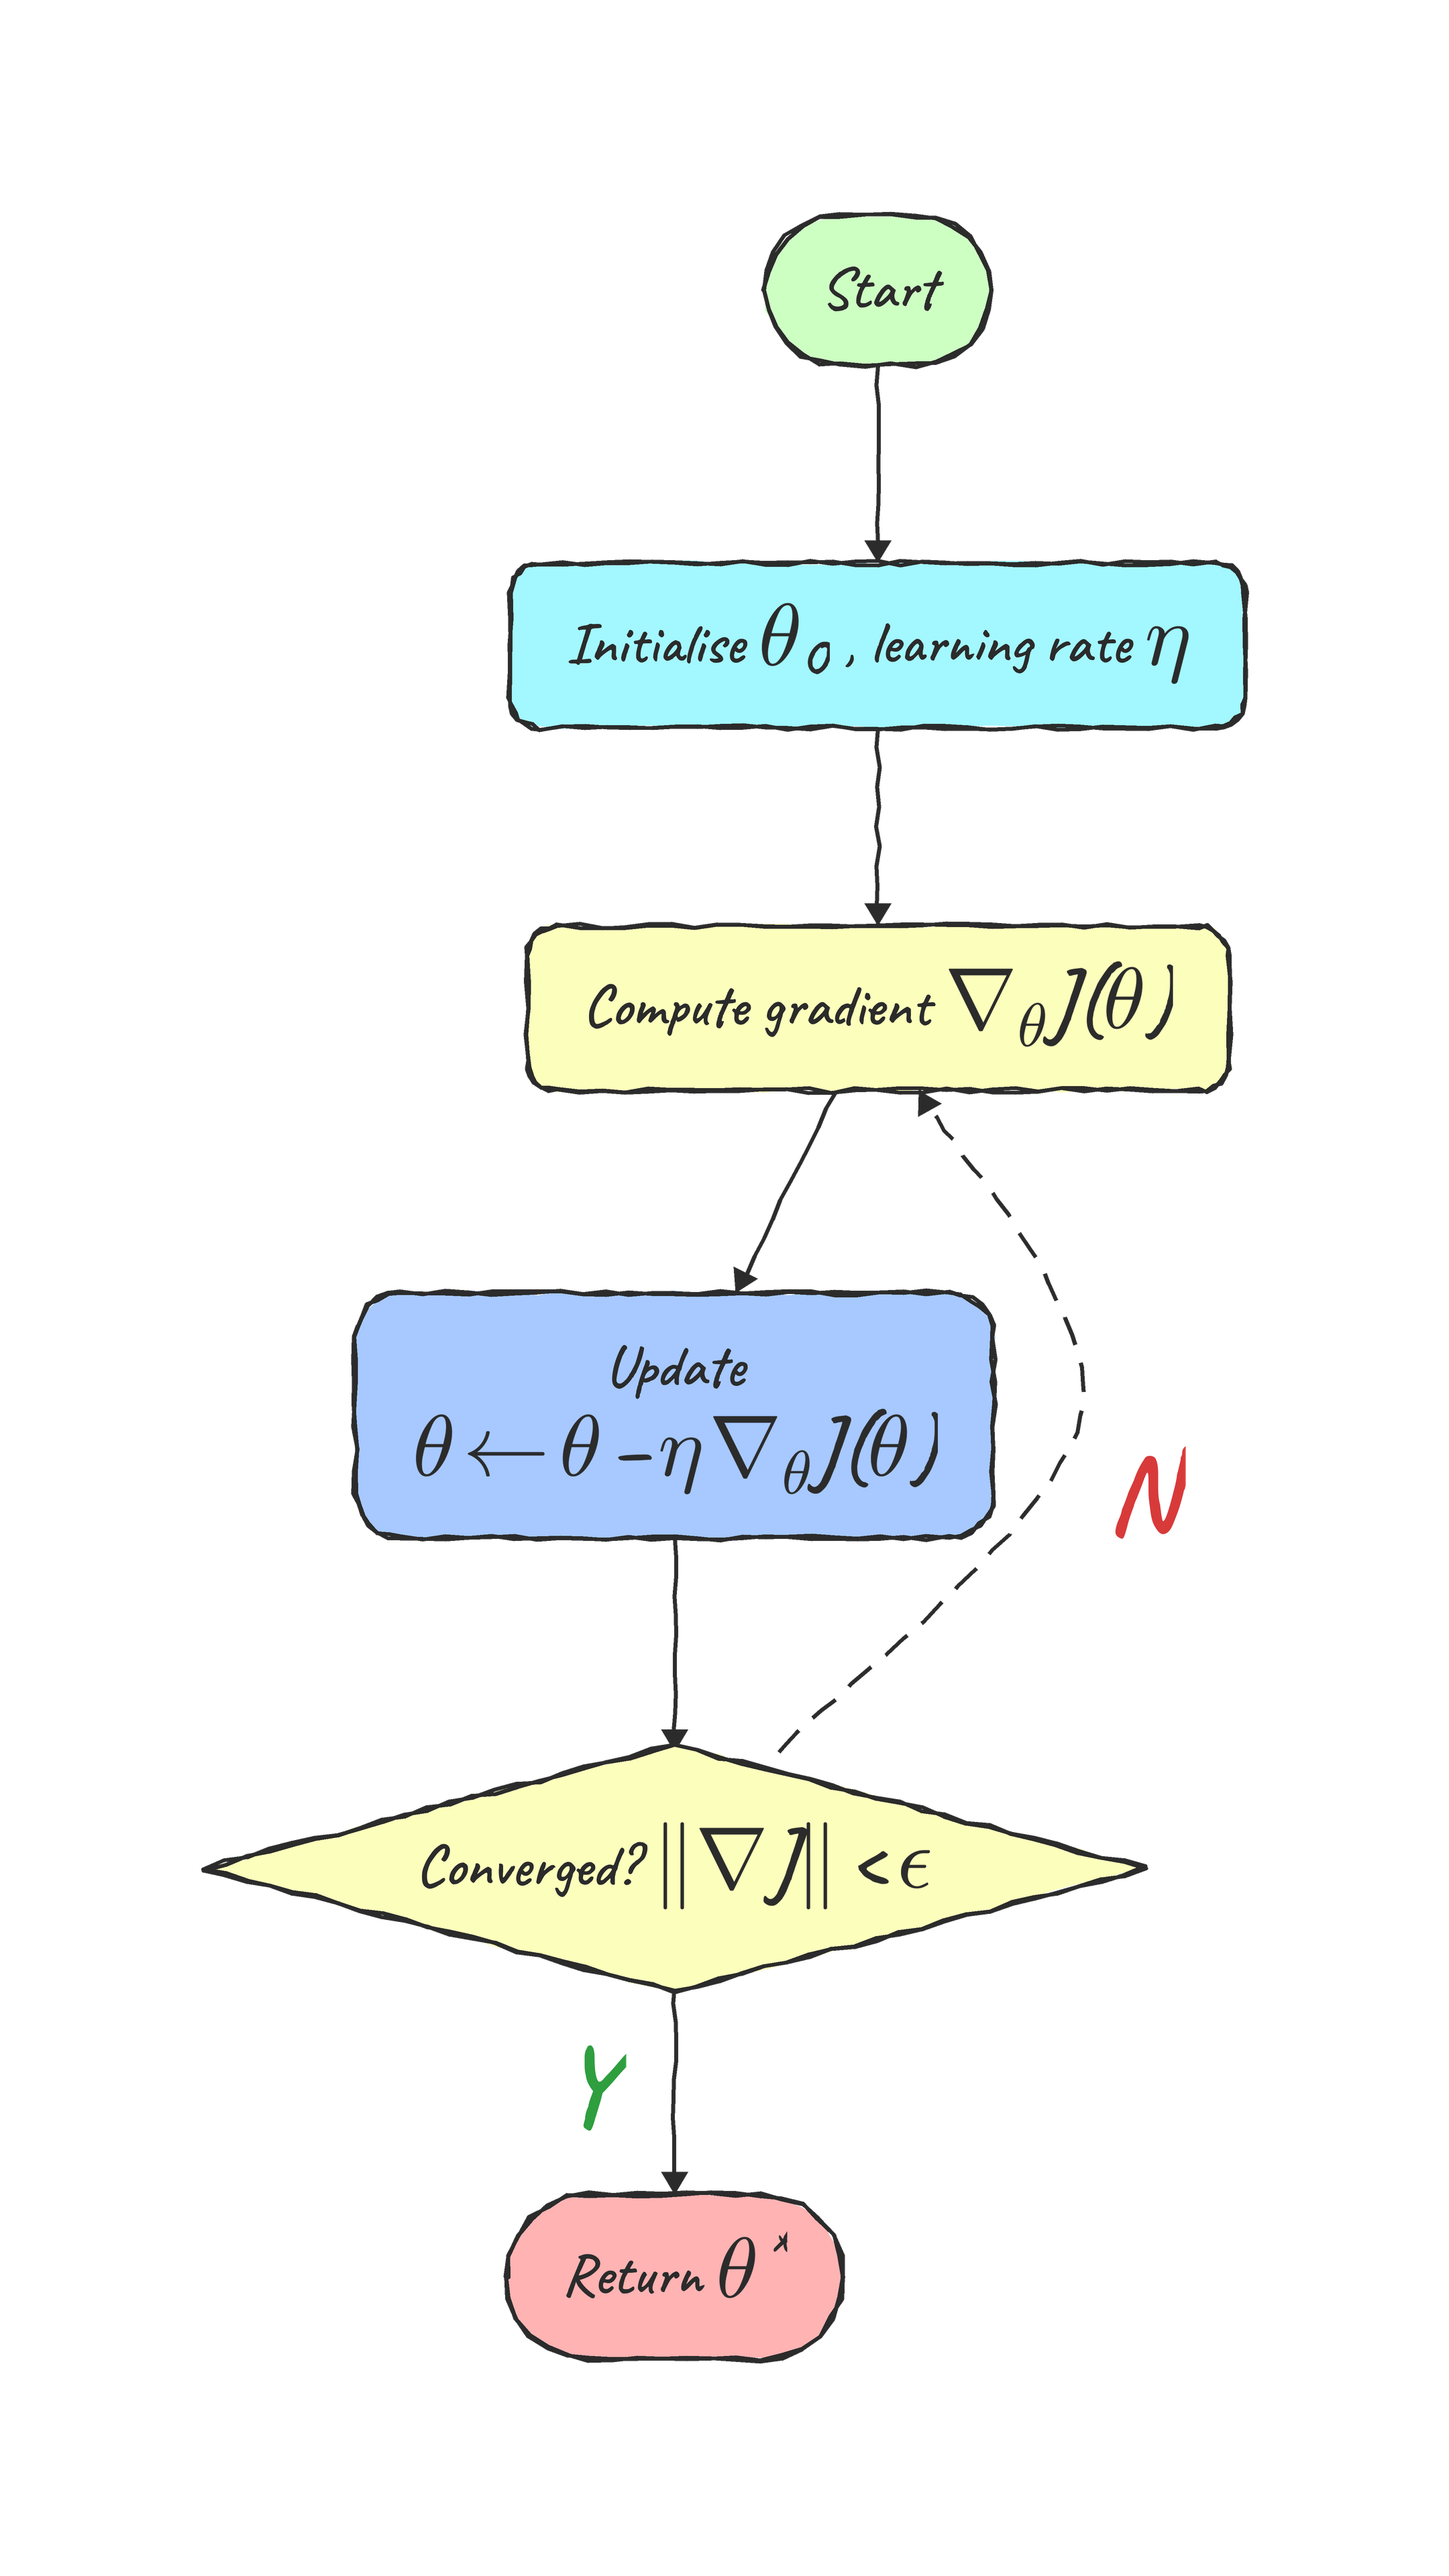
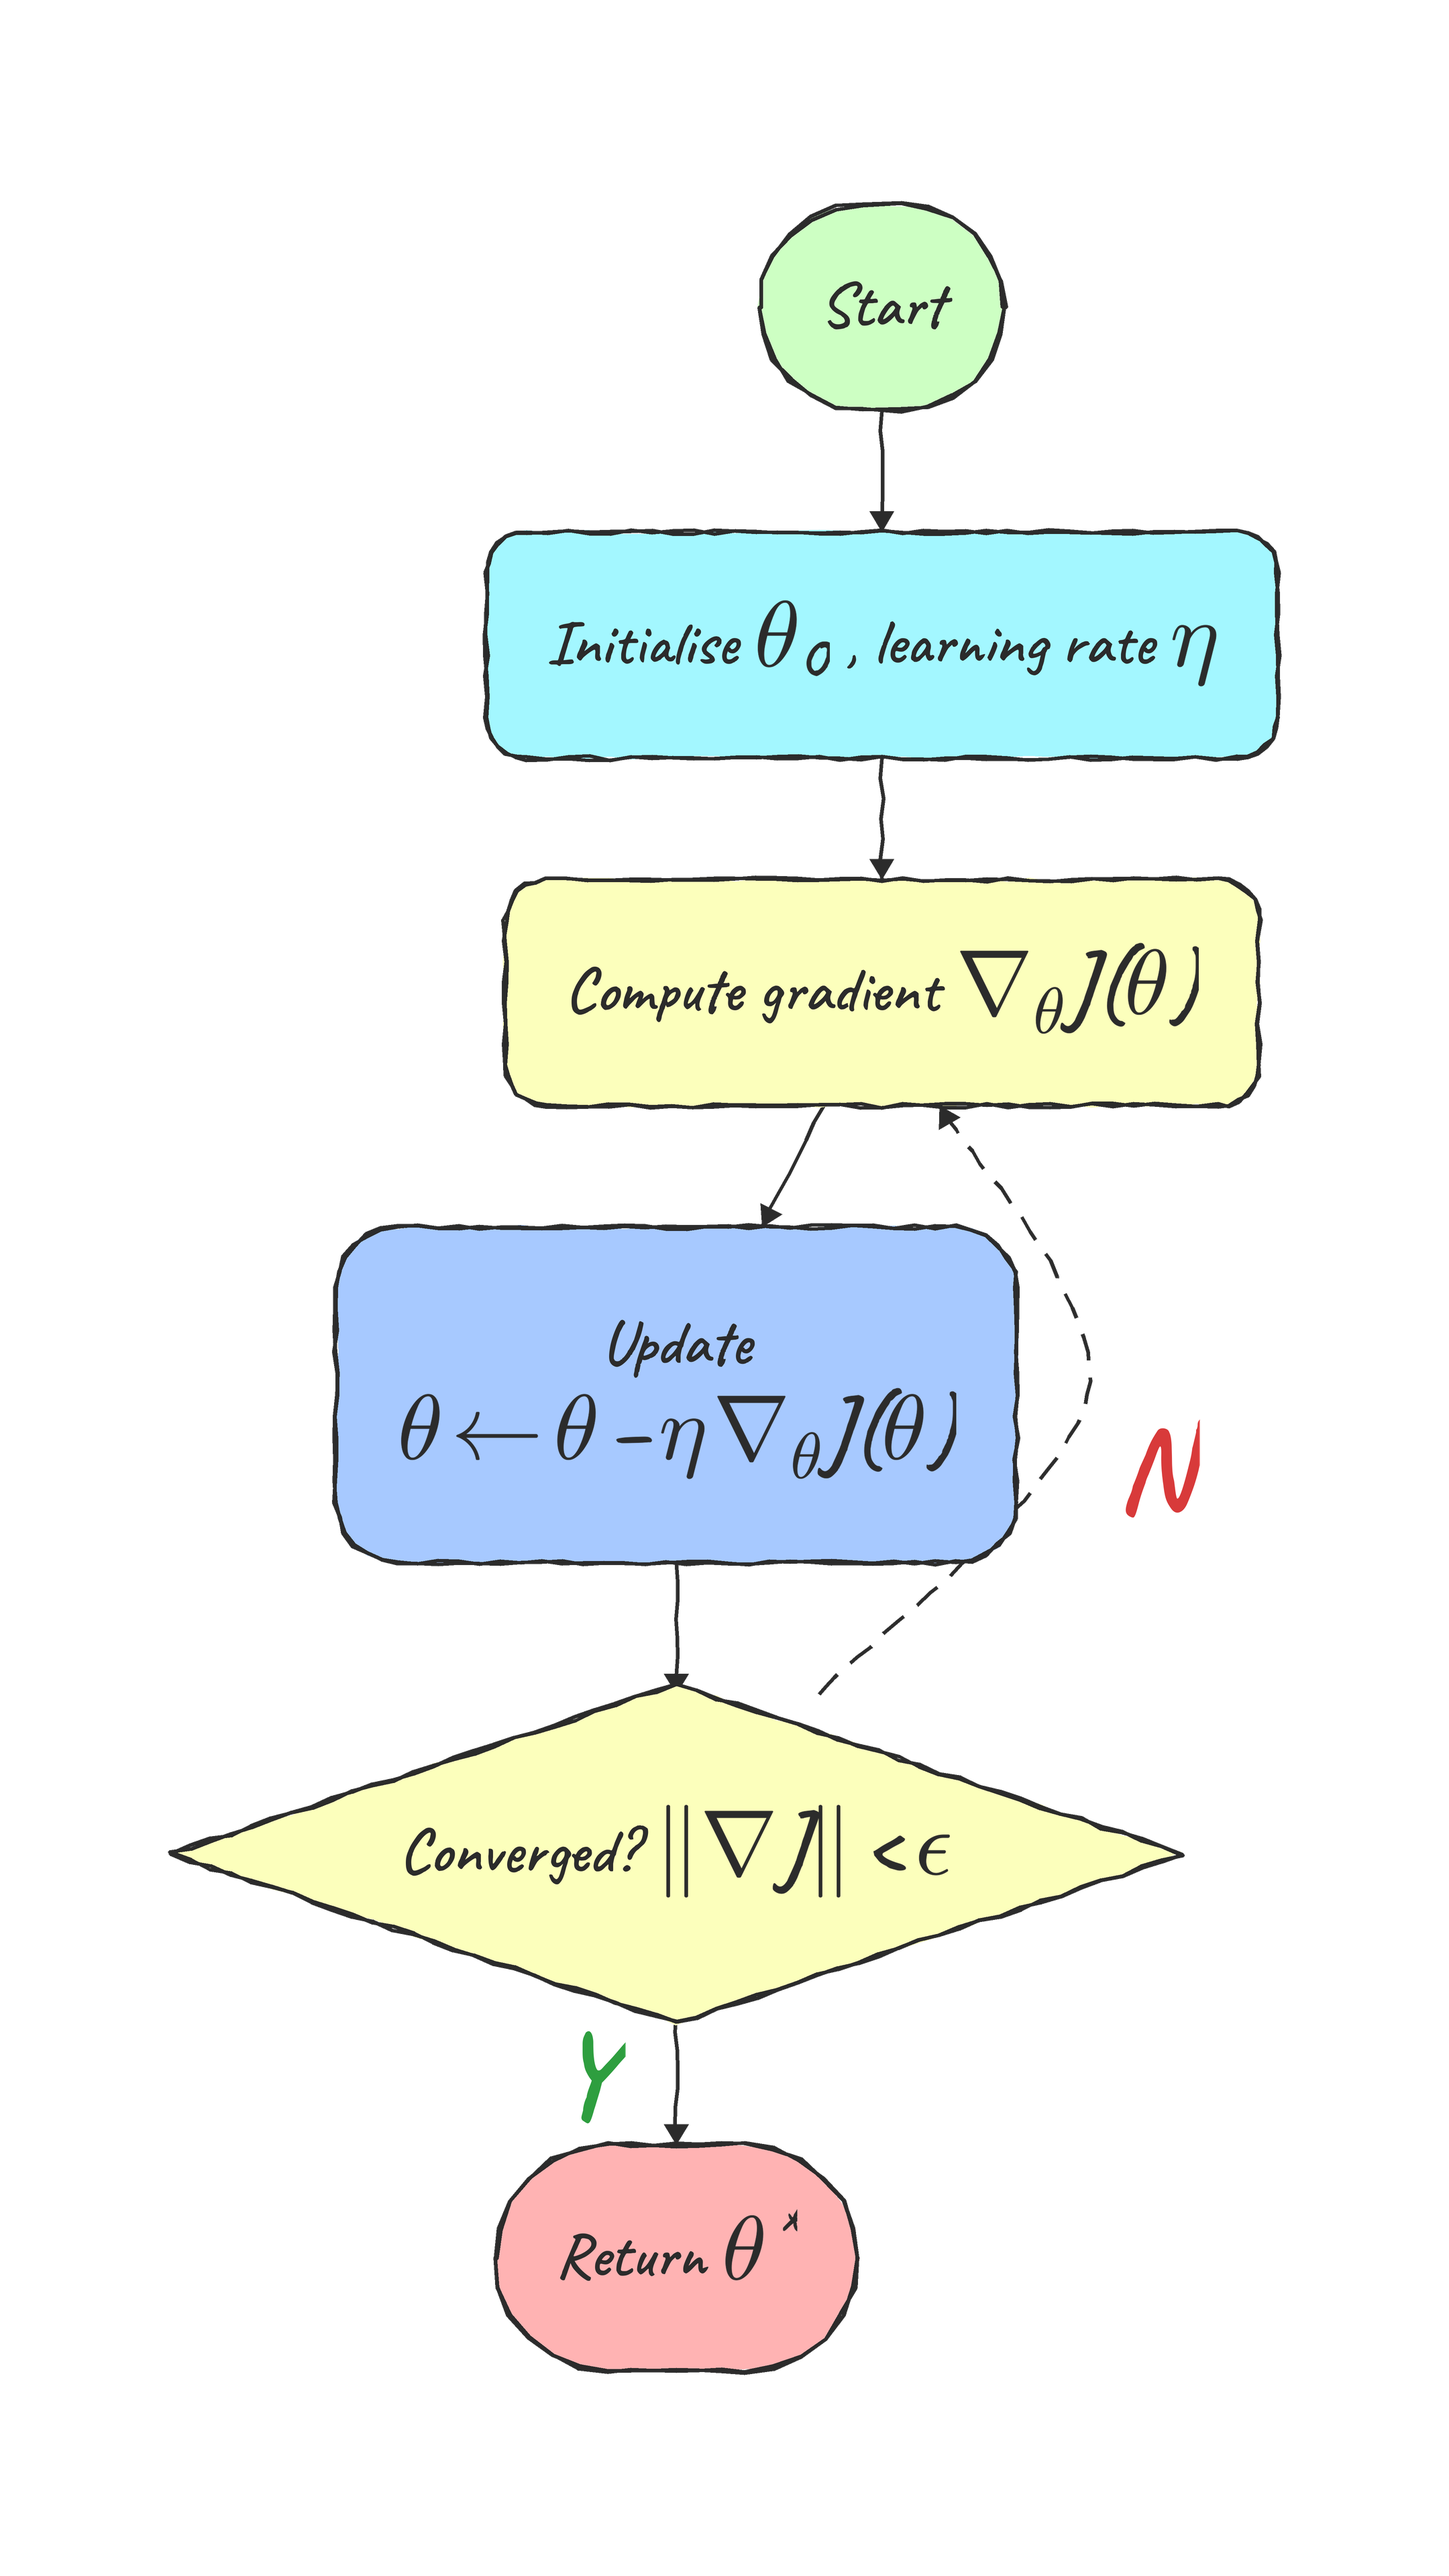
Maximise node size: fill the frame in both axes (capped)
"Make best use of the frame" means big nodes, not spread-out ones. Drop the
gap-stretch and instead scale X and Y independently to fill the frame in both
dimensions, capped at 1.35x so shapes aren't badly distorted. Bigger base
font (40) and tighter gaps so nodes dominate the canvas. Text, strokes and
math stay uniformly scaled (no distortion).

Claude-Session: https://claude.ai/code/session_01PkQ793Mrcet6GuHUUkKXnM

Changed region(s): [[0.1241, 0.0625, 0.8995, 0.9375], [0.7755, 0.5625, 0.8375, 0.5938]]

diff --git a/flowblow/raster.py b/flowblow/raster.py
@@ -186,21 +186,23 @@ def _dash(points: Sequence[Point], on: float, off: float) -> List[List[Point]]:
 # The drawer -- everything below works in OUTPUT pixels.
 # ---------------------------------------------------------------------------
 class _Drawer:
-    def __init__(self, img: Image.Image, unit: float, ox: float, oy: float, ink: str):
+    def __init__(self, img: Image.Image, ux: float, uy: float,
+                 ox: float, oy: float, ink: str):
         self.img = img
         self.d = ImageDraw.Draw(img)
-        self.unit = unit            # layout units -> output px
+        self.ux, self.uy = ux, uy   # layout units -> output px (per axis)
+        self.u = min(ux, uy)        # uniform scale for text, strokes, etc.
         self.ox, self.oy = ox, oy   # output origin offset
         self.accent = ink           # ink colour as hex string
         self.ink = hex_rgba(ink)
-        self.stroke = max(1.4, 2.4 * unit)
-        self.amp = 1.5 * unit
-        self.seg = 13 * unit
+        self.stroke = max(1.4, 2.4 * self.u)
+        self.amp = 1.5 * self.u
+        self.seg = 13 * self.u
         self.rng = random.Random(0)
 
-    # coordinate transform
+    # coordinate transform (anisotropic)
     def T(self, x: float, y: float) -> Point:
-        return (x * self.unit + self.ox, y * self.unit + self.oy)
+        return (x * self.ux + self.ox, y * self.uy + self.oy)
 
     # --- rough path utilities (input already in output px) ---
     def _roughen(self, pts: Sequence[Point], closed: bool, seed: int,
@@ -256,7 +258,7 @@ class _Drawer:
 
     # --- draw a rich-text block centred at output (cx, cy) ---
     def text_block(self, blk: Block, cx: float, cy: float, weight: int, color: str):
-        u = self.unit
+        u = self.u
         size_px = getattr(blk, "size", 24) * u
         font = get_font(weight, size_px)
         fill = hex_rgba(color)
@@ -282,12 +284,12 @@ class _Drawer:
                         color: str, halo=(255, 255, 255)):
         """Draw a label with a soft white knockout so it reads over any line
         (no boxy pill)."""
-        u = self.unit
+        u = self.u
         pad = int(round(5 * u)) + 2
         w = max(1, int(math.ceil(blk.w * u)) + 2 * pad)
         h = max(1, int(math.ceil(blk.h * u)) + 2 * pad)
         tile = Image.new("RGBA", (w, h), (0, 0, 0, 0))
-        sub = _Drawer(tile, u, 0, 0, self.accent)
+        sub = _Drawer(tile, u, u, 0, 0, self.accent)
         sub.text_block(blk, w / 2, h / 2, weight, color)
         # build a dilated, blurred white halo from the text's alpha
         r = max(1, int(round(2.4 * u)))
@@ -361,9 +363,10 @@ def _shape_points(shape: Shape, cx, cy, w, h):
 # ---------------------------------------------------------------------------
 # Scene assembly
 # ---------------------------------------------------------------------------
-def _draw_scene(diagram: Diagram, layout, blocks, unit: float,
+def _draw_scene(diagram: Diagram, layout, blocks, ux: float, uy: float,
                 ox: float, oy: float, img: Image.Image) -> None:
-    dr = _Drawer(img, unit, ox, oy, diagram.accent)
+    dr = _Drawer(img, ux, uy, ox, oy, diagram.accent)
+    unit = dr.u  # uniform scale for scalar sizes (text, dashes, offsets...)
     node_meta = {n.id: n for n in diagram.nodes}
     group_meta = {g.id: g for g in diagram.groups}
     group_color = {g.id: g.color for g in diagram.groups}
@@ -502,7 +505,7 @@ def _draw_scene(diagram: Diagram, layout, blocks, unit: float,
         else:
             fill = PALETTE[_hash(nid) % len(PALETTE)]
         cx, cy = dr.T(pn.x, pn.y)
-        w, h = pn.w * unit, pn.h * unit
+        w, h = pn.w * dr.ux, pn.h * dr.uy
         obstacles.append((cx - w / 2, cy - h / 2, cx + w / 2, cy + h / 2))
         seed = _hash(nid) & 255
         fill_rgba = hex_rgba(fill, 235)
@@ -598,21 +601,6 @@ _ROTATE = {Direction.TB: Direction.LR, Direction.LR: Direction.TB,
            Direction.BT: Direction.RL, Direction.RL: Direction.BT}
 
 
-def _stretch_vertical(layout, factor: float, top: float = 0.0) -> None:
-    """Spread everything out along Y by ``factor`` (node sizes unchanged) so a
-    short diagram fills the vertical length of a tall frame."""
-    def sy(y):
-        return top + (y - top) * factor
-    for pn in layout.nodes.values():
-        pn.y = sy(pn.y)
-    for e in layout.edges:
-        e.points = [(x, sy(y)) for (x, y) in e.points]
-    for g in layout.groups:
-        y0, y1 = sy(g.y), sy(g.y + g.h)
-        g.y, g.h = y0, y1 - y0
-    layout.height = sy(layout.height)
-
-
 def _scene_size(layout, title_block, fs):
     top = (title_block.h + fs * 1.1) if title_block else 0.0
     scene_w = max(layout.width, title_block.w if title_block else 0)
@@ -658,44 +646,27 @@ def render_png_bytes(diagram: Diagram, width: int = 1080, height: int = 1920,
     diagram.direction = chosen
 
     # extra margin so bowed arcs / floated labels never clip at the edge
-    B = fs * 1.9
-
-    # Use the full vertical length: if the frame is taller than the diagram
-    # needs (width is the binding dimension), spread the rows vertically to
-    # fill the height instead of leaving slack.
-    fit_w = (fw - 2 * pad) / (scene_w + 2 * B)
-    fit_h = (fh - 2 * pad) / (scene_h + 2 * B)
-    if fit_h > fit_w * 1.02:
-        target_h = (fh - 2 * pad) / fit_w - 2 * B
-        factor = min(target_h / scene_h, 2.4)
-        if factor > 1.0:
-            _stretch_vertical(layout, factor)
-            scene_w, scene_h, top = _scene_size(layout, title_block, fs)
-
+    B = fs * 1.3
     diagram_ox = (scene_w - layout.width) / 2
     total_w, total_h = scene_w + 2 * B, scene_h + 2 * B
-    fit = min((fw - 2 * pad) / total_w, (fh - 2 * pad) / total_h)
 
+    # Make the nodes as BIG as possible: scale X and Y independently to fill the
+    # frame in both dimensions, capped so shapes are not distorted too much.
     ss = max(1, supersample)
-    unit = fit * ss
-    scene_px_w = int(math.ceil(total_w * unit)) + 2
-    scene_px_h = int(math.ceil(total_h * unit)) + 2
+    sx = (fw - 2 * pad) / total_w
+    sy = (fh - 2 * pad) / total_h
+    base = min(sx, sy)
+    cap = 1.35
+    sx = min(sx, base * cap)
+    sy = min(sy, base * cap)
+    ux, uy = sx * ss, sy * ss
+
+    scene_px_w = int(math.ceil(total_w * ux)) + 2
+    scene_px_h = int(math.ceil(total_h * uy)) + 2
 
     scene = Image.new("RGBA", (scene_px_w, scene_px_h), (0, 0, 0, 0))
-    _draw_scene(diagram, layout, blocks, unit,
-                ox=(B + diagram_ox) * unit, oy=(B + top) * unit, img=scene)
-
-    # title
-    if title_block is not None:
-        tdr = _Drawer(scene, unit, 0, 0, diagram.accent)
-        tcx = (B + scene_w / 2) * unit
-        tdr.text_block(title_block, tcx, (B + title_block.h / 2 + fs * 0.2) * unit,
-                       700, diagram.accent)
-        # little underline flourish
-        uw = title_block.w * unit * 0.6
-        uy = (B + title_block.h + fs * 0.25) * unit
-        tdr.stroke_path([(tcx - uw / 2, uy), (tcx + uw / 2, uy)],
-                        hex_rgba(diagram.accent, 140), width=max(1, 2 * unit), passes=1)
+    _draw_scene(diagram, layout, blocks, ux, uy,
+                ox=(B + diagram_ox) * ux, oy=(B + top) * uy, img=scene)
 
     # downsample supersample
     if ss > 1:

diff --git a/flowblow/layout.py b/flowblow/layout.py
@@ -24,9 +24,9 @@ from .models import Diagram, Direction, Edge, Node, Shape
 # ---------------------------------------------------------------------------
 # Tunable spacing constants (pixels)
 # ---------------------------------------------------------------------------
-LAYER_GAP = 95          # spacing between successive layers (along main axis)
-SIBLING_GAP = 50        # min spacing between nodes inside the same layer
-GROUP_GAP = 80          # extra spacing between nodes of different groups
+LAYER_GAP = 60          # spacing between successive layers (along main axis)
+SIBLING_GAP = 44        # min spacing between nodes inside the same layer
+GROUP_GAP = 64          # extra spacing between nodes of different groups
 COMPONENT_GAP = 80      # spacing between disconnected components
 DUMMY_SIZE = 2          # cross-extent of a virtual routing node
 MARGIN = 24             # outer canvas margin (kept small; PNG fit adds framing)

diff --git a/flowblow/models.py b/flowblow/models.py
@@ -95,7 +95,7 @@ class Diagram(BaseModel):
     edges: List[Edge] = Field(default_factory=list)
     groups: List[Group] = Field(default_factory=list)
     # Visual knobs.
-    font_size: int = 34
+    font_size: int = 40
     accent: str = "#2b2b2b"  # ink colour for strokes/text
     paper: str = "#fbf7ee"   # background "paper" colour
     # How to provide the Caveat handwriting font:
